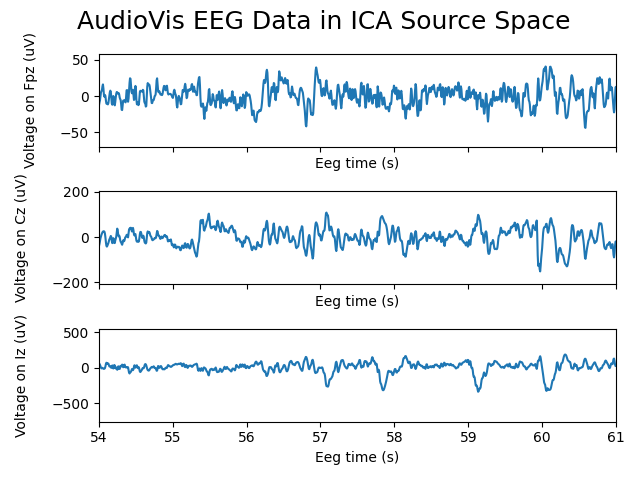
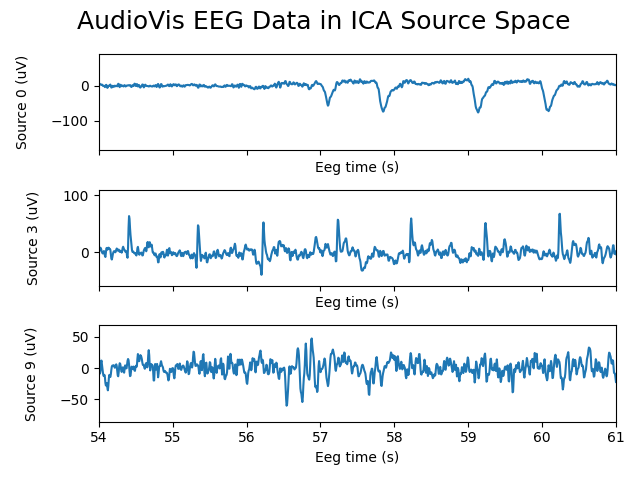
Fixing order

diff --git a/remove_audvis_blinks.py b/remove_audvis_blinks.py
@@ -107,11 +107,11 @@ def get_sources(eeg, unmixing_data, fs, sources_to_plot):
         fig.suptitle(' AudioVis EEG Data in ICA Source Space', fontsize=18)
         
         for channel_index, channel_name in enumerate(sources_to_plot):
-            source_activity = np.matmul(eeg.T, unmixing_data)
+            source_activity = np.matmul(unmixing_data, eeg)
             
-            axs[channel_index].plot(eeg_time, source_activity[:, channel_index], label=channel_name)
+            axs[channel_index].plot(eeg_time, source_activity[channel_name, :], label=channel_name)
             axs[channel_index].set_xlabel('Eeg time (s)')
-            axs[channel_index].set_ylabel(f'Voltage on {channel_name} (uV)\n')
+            axs[channel_index].set_ylabel(f'Source {channel_name} (uV)\n')
             axs[channel_index].set_xlim(54, 61)
     
         plt.tight_layout()    
@@ -119,6 +119,8 @@ def get_sources(eeg, unmixing_data, fs, sources_to_plot):
         plt.close()
         
     return source_activity
+
+# Part 4 - 
         
     
     

diff --git a/test_remove_audvis_blinks.py b/test_remove_audvis_blinks.py
@@ -47,4 +47,5 @@ components_to_plot = [0,1,2,3,4,5,6,7,8,29]
 rmv.plot_components(mixing_matrix,channels,components_to_plot) 
 
 # Part 3 - Source Activity
-rmv.get_sources(eeg, unmixing_matrix, fs, channels_to_plot)
+sources_to_plot = [0,3,9]
+rmv.get_sources(eeg, unmixing_matrix, fs, sources_to_plot)
